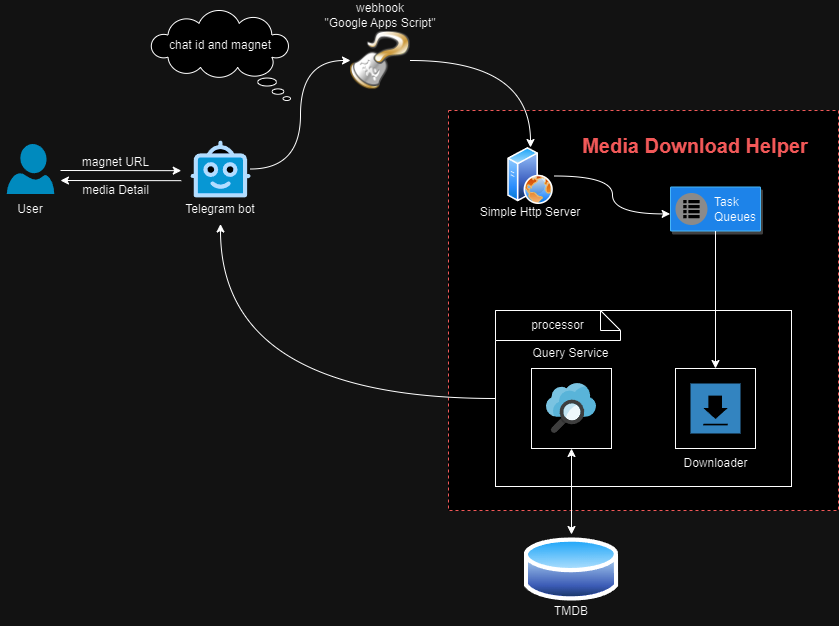
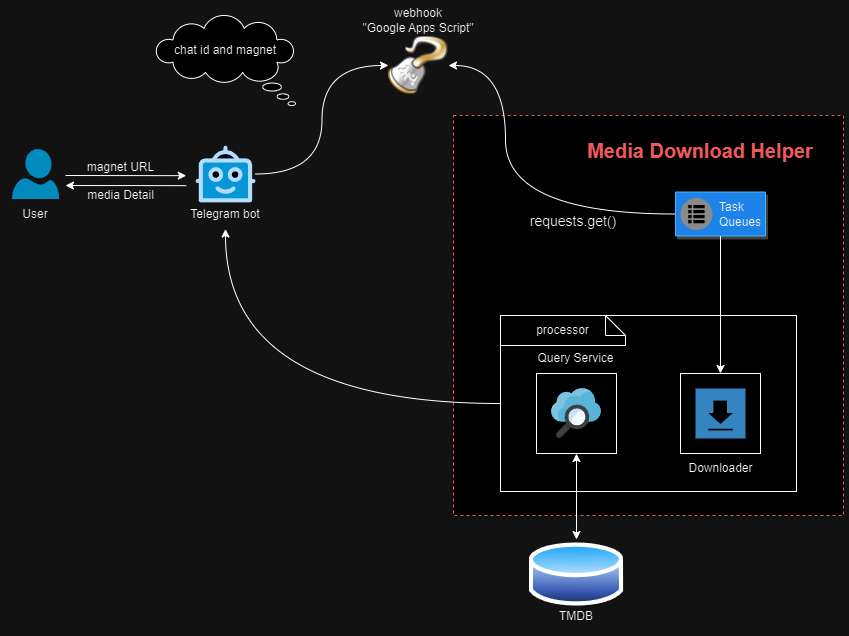
📃 docs(doc): 重构方案修改 module 图；上传完整部署方案文档

diff --git a/doc/Media-Download-Helper 完整部署教程.md b/doc/Media-Download-Helper 完整部署教程.md
@@ -1,0 +1,107 @@
+# Media-Download-Helper 完整部署说明
+
+> 前排提示：由于使用到了 Telegram、Google等服务，所以当前方案不建议国内用户使用！
+
+## 基于 docker 安装 qbittorrent WebUI
+
+使用 docker 安装 qbittorrent 非常简单，教程也非常非常多，而且能看到这篇教程的人，我估计大部分可能正在使用 qbittorrent，因此这里就不在赘述了。
+
+这里提供一个参考链接：[《n1 docker安装qb》](https://juejin.cn/s/n1%20docker%E5%AE%89%E8%A3%85qb)。
+
+> 如果对 docker，参考链接中的 docker compose 部分不熟悉的话，还是先去学习一下相关的基础知识吧。
+
+在安装完成后，我们会获得一个 WebUI 的地址，形如：`http://192.168.1.123:8080/`，我们记录下来，一同需要记录的还有登录的用户名 `QBIT_USERNAME` 和密码 `QBIT_PASSWORD`。
+
+> 安装完成后，可以先手动下载一个文件试试，验证一下是否能正常下载磁力链接，以及下载后的文件是否能正常获取和使用。避免后续出现下载问题，例如无法联网，无法解析磁力链接，下载无速度，找不到下载的文件等。
+
+## 申请 Telegram Bot 并获取对应 Token
+
+这一部分不做详细介绍，网上教程非常多，直接按照本章节标题进行 Google 即可。
+
+如果懒得 Google，也可以参考这篇文章[《Telegram 机器人的申请和设置图文教程》](https://www.dengnz.com/2020/11/23/telegram-%E6%9C%BA%E5%99%A8%E4%BA%BA%E7%9A%84%E7%94%B3%E8%AF%B7%E5%92%8C%E8%AE%BE%E7%BD%AE%E5%9B%BE%E6%96%87%E6%95%99%E7%A8%8B/)，里面的教程非常详细，原作者也由对应的油管视频可供参考，只要按部就班抄作业即可。
+
+在此章节中，我们获取到了一个 **"Bot_TOKEN"**，在后续的配置和部署中会使用到。
+
+
+## 部署 Google Apps Script 在线脚本
+
+默认情况下，我们发送给 Telegram Bot 的消息是直接发送给 Telegram 官方服务器的，在这种情况下，我们无法获取到 Bot 接收到的数据并做出相应的处理和相应。
+
+但是 Telegram 给我们提供了一个为 bot 设置 webhook 的方法 `/setwebhook?url=xxxx`，这样我们就可以通过 webhook 获取到用户发送的消息。这里我们通过 **Google Apps Script** 来实现这个功能。
+
+> 这一部分也是受到[《Telegram 机器人的申请和设置图文教程》](https://www.dengnz.com/2020/11/23/telegram-%E6%9C%BA%E5%99%A8%E4%BA%BA%E7%9A%84%E7%94%B3%E8%AF%B7%E5%92%8C%E8%AE%BE%E7%BD%AE%E5%9B%BE%E6%96%87%E6%95%99%E7%A8%8B/)作者的系列教程[《Telegram Bot 第一个回声机器人 – 你是汤姆猫吧[第二集]》](https://www.dengnz.com/2018/09/05/telegram-bot-%e7%ac%ac%e4%b8%80%e4%b8%aa%e5%9b%9e%e5%a3%b0%e6%9c%ba%e5%99%a8%e4%ba%ba-%e4%bd%a0%e6%98%af%e6%b1%a4%e5%a7%86%e7%8c%ab%e5%90%a7%e7%ac%ac%e4%ba%8c%e9%9b%86/)启发。原文中作者通过 Google Apps Script 实现了一个简单的回声机器人，并且在后续的系列文章中，扩展了不少 Telegram bot 的高级用法，感兴趣朋友的也可以参考参考。
+
+### 步骤 1、创建 Google Apps Script 项目
+
+打开 Google Apps Script 的[官网](https://script.google.com/home/start)，点击右上角的 `新建` 按钮，创建一个新的项目。
+
+![新建项目](./.assert_部署GoogleAppsScript在线脚本/新建项目.png)
+
+### 步骤 2、编辑脚本的代码
+
+![编写代码](./.assert_部署GoogleAppsScript在线脚本/编辑脚本代码.png)
+
+### 步骤 3、部署项目
+
+![部署项目1](./.assert_部署GoogleAppsScript在线脚本/项目部署1.png)
+
+![部署项目2](./.assert_部署GoogleAppsScript在线脚本/项目部署2.png)
+
+> 授权时可能会出现风险提示界面，估计是挂了代理的缘故，按下图操作继续即可。
+
+![部署项目3](./.assert_部署GoogleAppsScript在线脚本/项目部署3.png)
+
+![部署项目4](./.assert_部署GoogleAppsScript在线脚本/项目部署4.png)
+
+![部署项目5](./.assert_部署GoogleAppsScript在线脚本/项目部署5.png)
+
+### 步骤 4、获取 Webhook URL
+
+在上一步中，我们最终获取了一个 Web 应用的网址，我们可以直接将这个网址粘贴到浏览器地址栏进行访问，来验证部署是否成功，当显示 `{"status":"OK","magnet_urls":[]}` 时，表明已部署成功。 如下图所示：
+
+![部署成功](./.assert_部署GoogleAppsScript在线脚本/部署成功.png)
+
+我们还需要对这个 Web Url 进行一些处理，打开这个 Url Encode 网站 [https://www.urlencoder.org/](https://www.urlencoder.org/)，将这个 url 进行编码，然后将编码后的 url 保存下来，后续会用。按下图操作即可：
+
+![UrlEncode](./.assert_部署GoogleAppsScript在线脚本/编码URL.png)
+
+至此我们已经完成了 Google Apps Script 在线脚本的部署，我们在这里获得了一个 **"原始 URL"**，和一个 **"编码后 URL"**。
+
+## 步骤 5、注册 Telegram bot Webhook
+
+在这一步中，我们需要将上一步中获取到的 **"编码后 URL"** 注册到我们的 Telegram Bot 中，这样我们就可以通过 webhook 获取到用户发送的消息。
+
+我们通过 Telegram Bot 的 API 来实现这个功能，这里用到两个 API，一个是 `setWebhook`，一个是 `getWebhookInfo`。
+
+### 步骤 5.1、注册
+
+我们使用 **"Bot TOKEN"**、**"编码后 URL"** 两个参数，按照以下格式完成 API 的组装：
+
+~~~shell
+# 将 {Bot TOKEN} 替换为你的 Bot TOKEN
+# 将 {编码后 URL} 替换为你的 编码后 URL
+https://api.telegram.org/bot{Bot TOKEN}/setWebhook?url={编码后 URL}
+~~~
+
+然后将这个组装后的 url 粘贴到浏览器地址栏中进行访问，如果返回 `{"ok":true,"result":true,"description":"Webhook was set"}`，则表示注册成功。如下图所示：
+
+![注册成功](./.assert_部署GoogleAppsScript在线脚本/注册成功.png)
+
+### 步骤 5.2、验证
+
+我们可以通过 `getWebhookInfo` API 来验证是否注册成功，组装后的 url 如下：
+
+~~~shell
+# 将 {Bot TOKEN} 替换为你的 Bot TOKEN
+https://api.telegram.org/bot{Bot TOKEN}/getWebhookInfo
+~~~
+
+然后将这个组装后的 url 粘贴到浏览器地址栏中进行访问，可以在返回结果中看到注册的 url，如下图所示：
+
+![验证成功](./.assert_部署GoogleAppsScript在线脚本/验证成功.png)
+
+可以将图中红框部分的 URL 与我们在 **步骤 4** 中获取到的 **"原始 URL"** 进行对比，如果一致，则表示注册成功。
+
+## 基于 docker 部署 Media-Download-Helper
+
+ 
